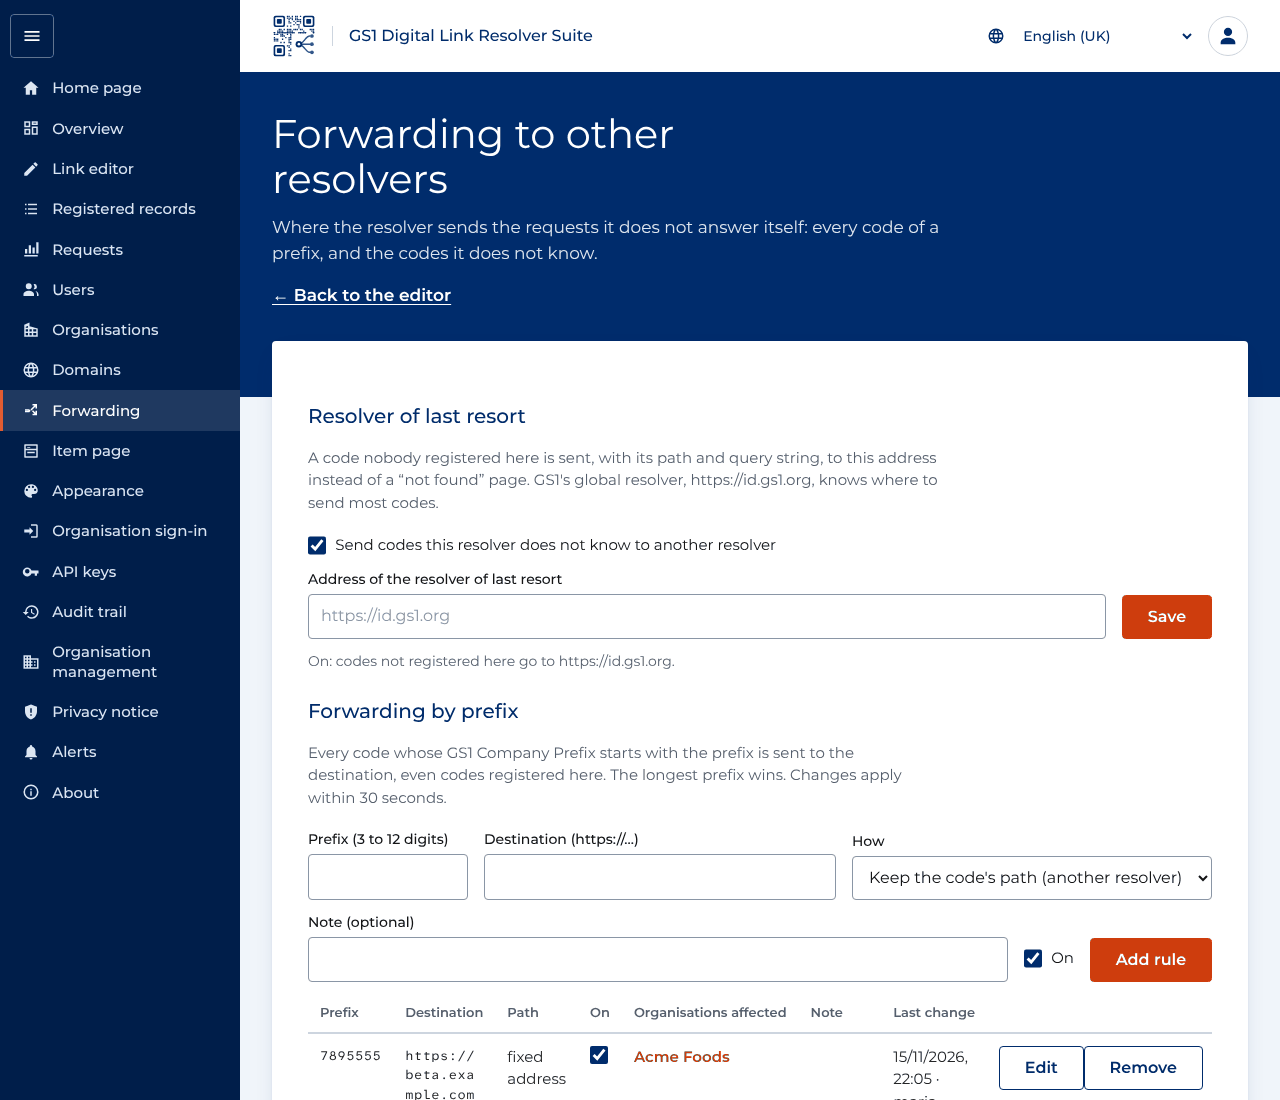
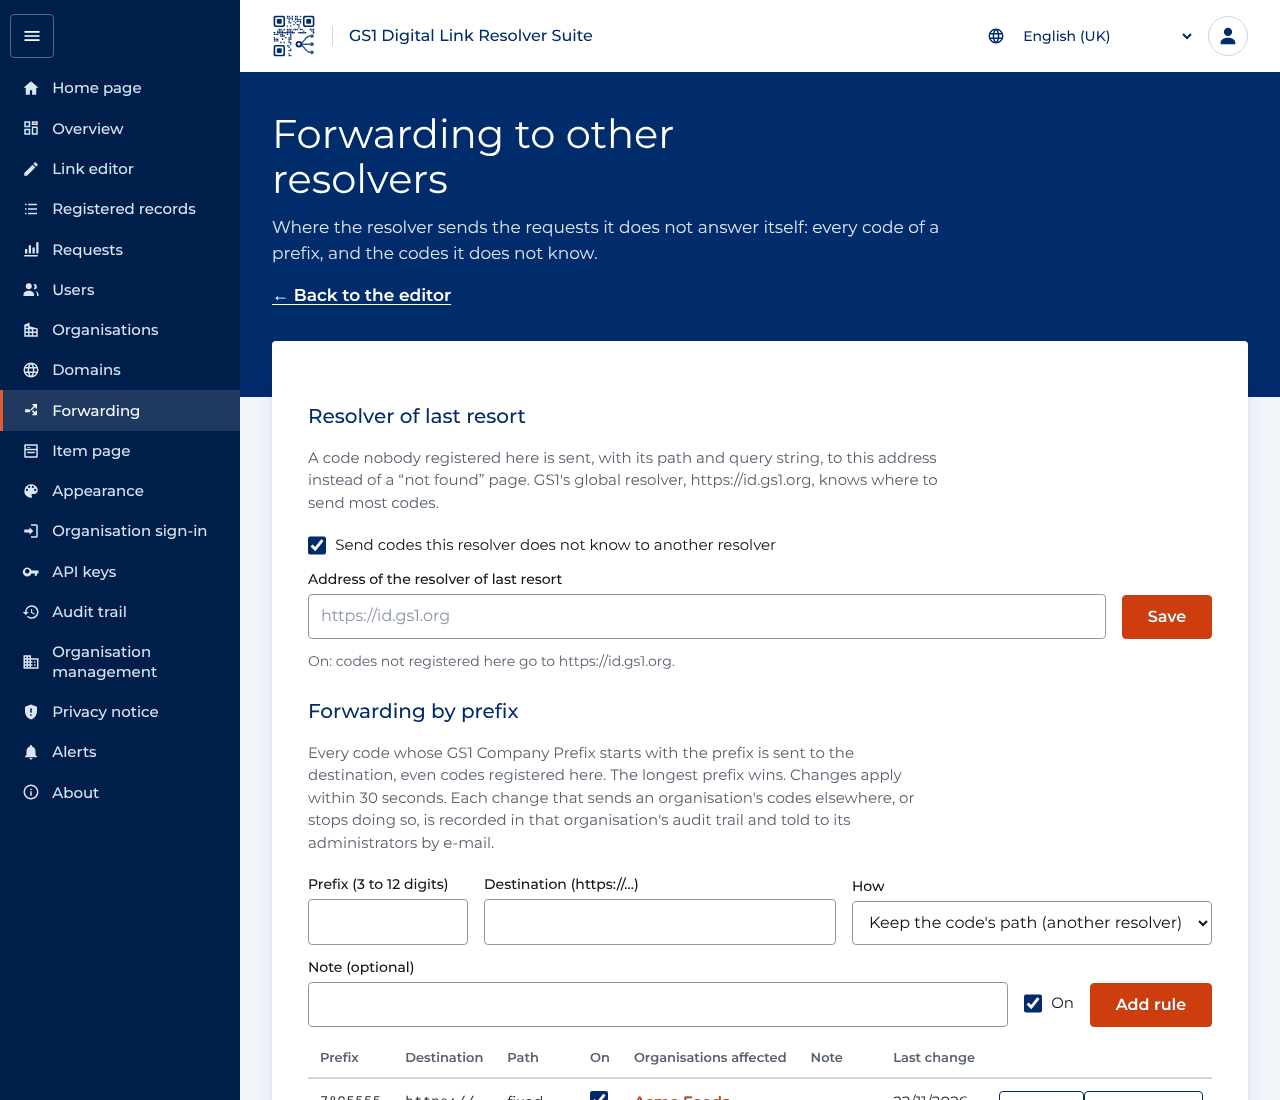
docs: forwarding told to the organisations in the changelog, features, user guide and history
The changes of 8d27572 (finding F-028, ADR 0046): each change of a prefix rule that sends an
organisation's codes elsewhere, or stops doing so, is in its own audit trail and an alert to its
administrators. The Forwarding screen's image renewed with the tool fixed in 5d261c8.

Claude-Session: https://claude.ai/code/session_01AV1osuUwmShbNsZcFDrMnY

diff --git a/Documentation/features.md b/Documentation/features.md
@@ -272,6 +272,7 @@ How to use the portal: [portal user guide](portal-user-guide.md). How each featu
 | Log of resolver requests | Each scan the resolver answers is recorded: code and qualifiers, outcome (redirected, code not registered, no link of that type, choice, linkset, invalid), the level that answered, the target's host, the time taken, language, device class, referrer's host; never the client's address, the User-Agent, serial numbers or data attribute values; written in the background, never slowing a scan; kept `RESOLVER_LOG_DAYS` (90) ([ADR 0006](adr/0006-resolver-request-log.md)) | `d633fcb` | `request_log` |
 | Daily counts | Requests per key and day, with outcomes, devices, languages, link types and times, counted hourly by the worker in the installation's time zone, kept 800 days | `d633fcb` | `requestlog`: per day |
 | Forwarding to other resolvers | A resolver of last resort (`https://id.gs1.org` by default) for keys this resolver does not know, and prefix rules sending every key of a prefix to another resolver or address, both switched on in the portal by server administrators; the outcomes in the request log and the overview's Forwarding group ([ADR 0018](adr/0018-forwarding.md)) | `8673873` | `forwarding_resolver`: last resort · `forwarding`: rule · `forwarding_e2e`: overview |
+| Forwarding told to the organisations | Each change of a prefix rule that sends an organisation's codes elsewhere, or stops doing so (created or removed while on, switched on or off, another destination or mode), is an event in that organisation's own audit trail, by the operator, and an alert by e-mail to its administrators with the prefix, the destination and its prefixes covered; a note, or a rule that stays off, tells nobody ([ADR 0046](adr/0046-forwarding-tells-organisations.md)) | `8d27572` | `forwarding`: a rule over an organisation's prefix: its administrator told · `forwarding`: …in the organisation's own audit trail, by the operator, with the rule · `forwarding`: a note changed: codes go where they went, nobody told · `forwarding`: switched off: told that the rule no longer sends them · `forwarding`: the message forwarding-on in every language |
 | Privacy notice | A *Privacy notice* link in every footer to a public page; the notice written in the portal by server administrators, plain text with a preview, published as versions never changed, the earlier ones readable; a default notice in twelve languages on the operator's responsibility and "as is" ([ADR 0017](adr/0017-privacy-notice.md)) | `37b14e8` | `privacy`: version · `privacy_e2e`: notice · `resolver`: privacy notice · `home`: privacy notice |
 | About page | A public *About* page linked from the user menu, the sign-in page and the home page: the version running with its commit and date (written at the image's build), source code and licence, the manuals at that commit, the origin, every third-party component with its licence in four groups, trademarks ([ADR 0024](adr/0024-name-and-about.md)) | `b4972fb` | `about`: public address · `about`: version.json · `about_e2e`: commit linked · `deploy`: version |
 | The project's name | The pages' default title — the portal, its sign-in page, privacy notice and About page, the home page, the resolver's pages and the item's page — is *GS1 Digital Link Resolver Suite*; an operator's own title still replaces it, and an appearance stored with the former default title *GS1 Resolver Community Edition* shows the new name. The resolver's description file and the official services' API descriptions keep the official name ([ADR 0024](adr/0024-name-and-about.md)) | `71ef8d2` | `appearance`: a former default title stored · `home`: page title · `landing`: the original appearance · `landing`: description file keeps |

diff --git a/Documentation/portal-user-guide.md b/Documentation/portal-user-guide.md
@@ -190,7 +190,9 @@ Security notices are always sent; **When an import or link check I started has f
 long imports and for **Check every record's links**. Administrators also choose **Monitoring alerts** (on until
 switched off): the resolver not answering, a daily backup that failed or is late, the HTTPS certificate about to
 expire, and spikes of scans of codes nobody registered (an organisation's administrators receive these for its codes
-only). Select **Save preferences**.
+only); an organisation's administrators also receive, under the same choice, the DNS record of one of its domains gone
+missing and a forwarding rule of the server administrators that starts or stops sending its codes to another resolver
+(the message names the prefix, the destination and the organisation's prefixes covered). Select **Save preferences**.
 
 ## 4. The editor at a glance
 
@@ -1046,6 +1048,10 @@ answer itself ([ADR 0018](adr/0018-forwarding.md)):
   page. Add a rule with the fields and **Add rule**; **Edit** fills the fields again (the prefix stays); the switch in
   the list turns a rule on and off without removing it; **Remove** asks first. When a rule's prefix overlaps an
   organisation's prefixes, the list names the organisations: their codes of that prefix are answered elsewhere.
+  Each change that sends an organisation's codes elsewhere, or stops doing so (a rule added or removed while on,
+  switched on or off, given another destination or way of sending), is recorded in that organisation's own audit
+  trail and its administrators receive an alert by e-mail
+  ([ADR 0046](adr/0046-forwarding-tells-organisations.md)); changing only the note tells nobody.
 
 A destination is never this installation or one of its organisations' domains (the requests would come back). Every
 change is in the audit trail and reaches the resolver within 30 seconds. The overview shows how many requests each

diff --git a/Documentation/extensions/CHANGELOG.md b/Documentation/extensions/CHANGELOG.md
@@ -11,6 +11,20 @@ Before updating an existing installation with `git pull`, add `RESOLVER_DB_PASSW
 `.env` (or run the installer again): without them the resolver and the data entry API refuse to start on a real domain
 (session 45, below).
 
+### A forwarding rule told to the organisations it concerns (session 61)
+- **Changed: an organisation learns when a forwarding rule sends its codes elsewhere**
+  ([ADR 0046](../adr/0046-forwarding-tells-organisations.md)). A prefix rule of the server administrators
+  ([ADR 0018](../adr/0018-forwarding.md)) answers every code of its prefix before this resolver's records, an
+  organisation's records included; before, only the operator's audit trail recorded it. Now each change that changes
+  where an organisation's codes go — a rule added or removed while on, switched on or off, given another destination
+  or way of sending — is also an event in that organisation's own audit trail (by the operator) and an e-mail alert to
+  its administrators: *Codes of prefix … are now sent to another resolver* (the destination, the organisation's
+  prefixes covered, when) or *… are no longer sent to another resolver* (to check the records that answer again).
+  Changing only a rule's note, or a rule that stays off, tells nobody. The messages are alerts (Options → E-mail, on
+  by default), in the twelve languages; the *Forwarding* screen says so beside the rules.
+- **Operators:** after `git pull`: `docker compose up -d --build`. Nothing for `.env`; the messages need e-mail set up.
+  Commit `8d27572`.
+
 ### Only the resolver on an organisation's own domain (session 60)
 - **Changed: an organisation's own domain serves its codes and nothing else**
   ([ADR 0045](../adr/0045-organisation-domains-resolver-only.md)). The host's sites that `scripts/custom-domains.sh`

diff --git a/Documentation/history.md b/Documentation/history.md
@@ -1756,3 +1756,18 @@ already check every value keep their own messages. The seeded sweep, kept as a t
 write route of the application's own table of routes, then found one more fault: an XLSX export failing on a control
 character in its column titles. A schema per route, a catch-all turning exceptions into 400, and refusing unknown
 fields were weighed and not taken. 15 mutations, all caught.
+
+## Session 61 — a forwarding rule told to the organisations it concerns
+
+Finding F-028 of the security assessment, in one code commit (`8d27572`;
+[ADR 0046](adr/0046-forwarding-tells-organisations.md)). A prefix rule answers every code of its prefix before this
+resolver's records, so a rule over an organisation's prefixes bypasses the records — the leaflets — it keeps up to date;
+the Forwarding screen named the organisations to the server administrator, but the event went to the operator's trail
+only and the organisation was never told. Now each change that changes where an organisation's codes go is journalled
+in its own trail, by the operator, and sent to its administrators as an alert (`forwarding-on`, `forwarding-off`, new
+messages in the twelve languages); a note, or a rule that stays off, tells nobody. An approval by the organisation,
+refusing overlapping rules and an always-sent message were weighed and not taken. `test_forwarding.py` gained 21
+checks; 16 mutations, all caught. The Forwarding screen's hint says so, in the twelve languages. The guide's screenshot
+tool, stopped by the portal's Content-Security-Policy since session 54, takes its pictures again (`5d261c8`); only the
+Forwarding screen's image is renewed.
+
